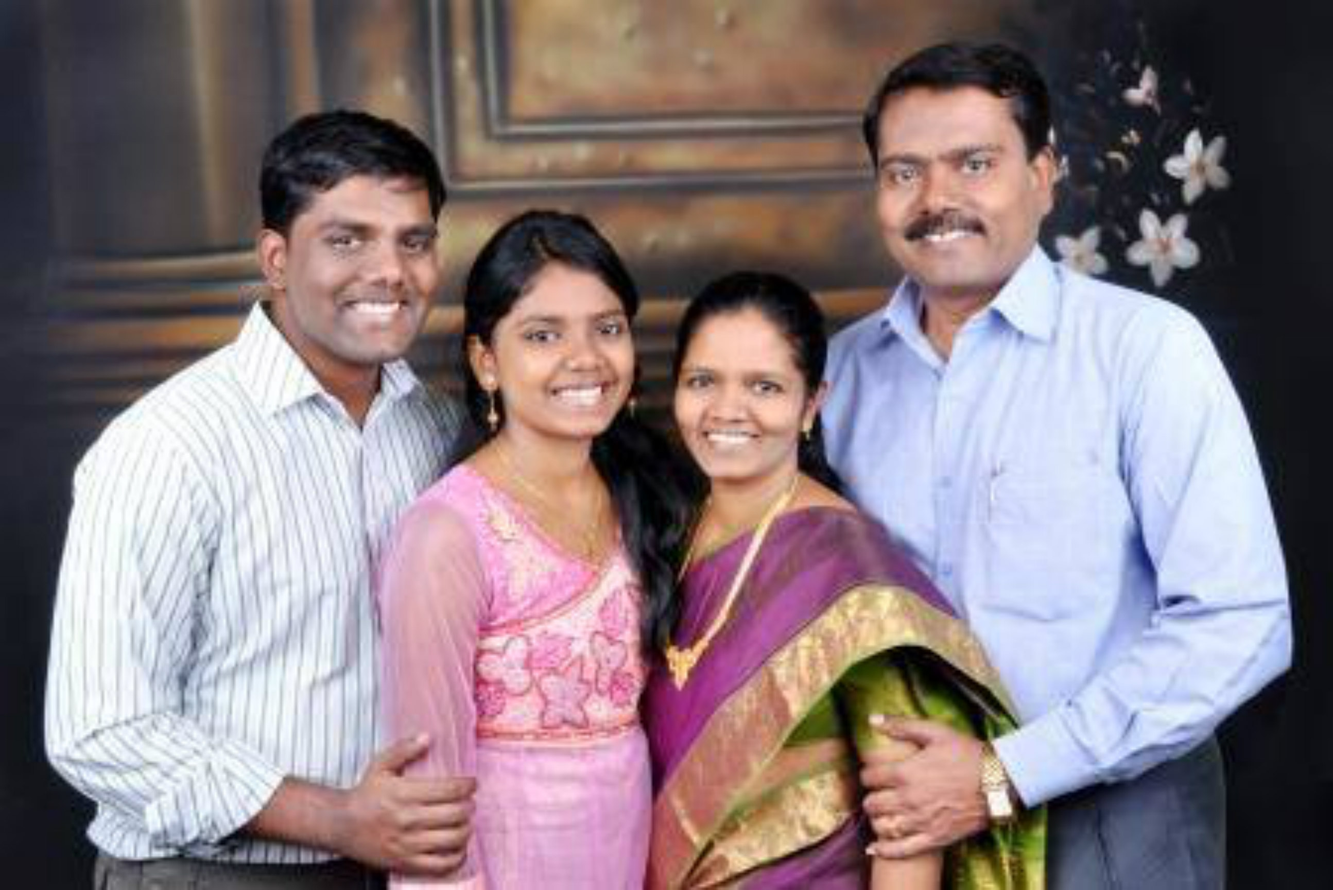
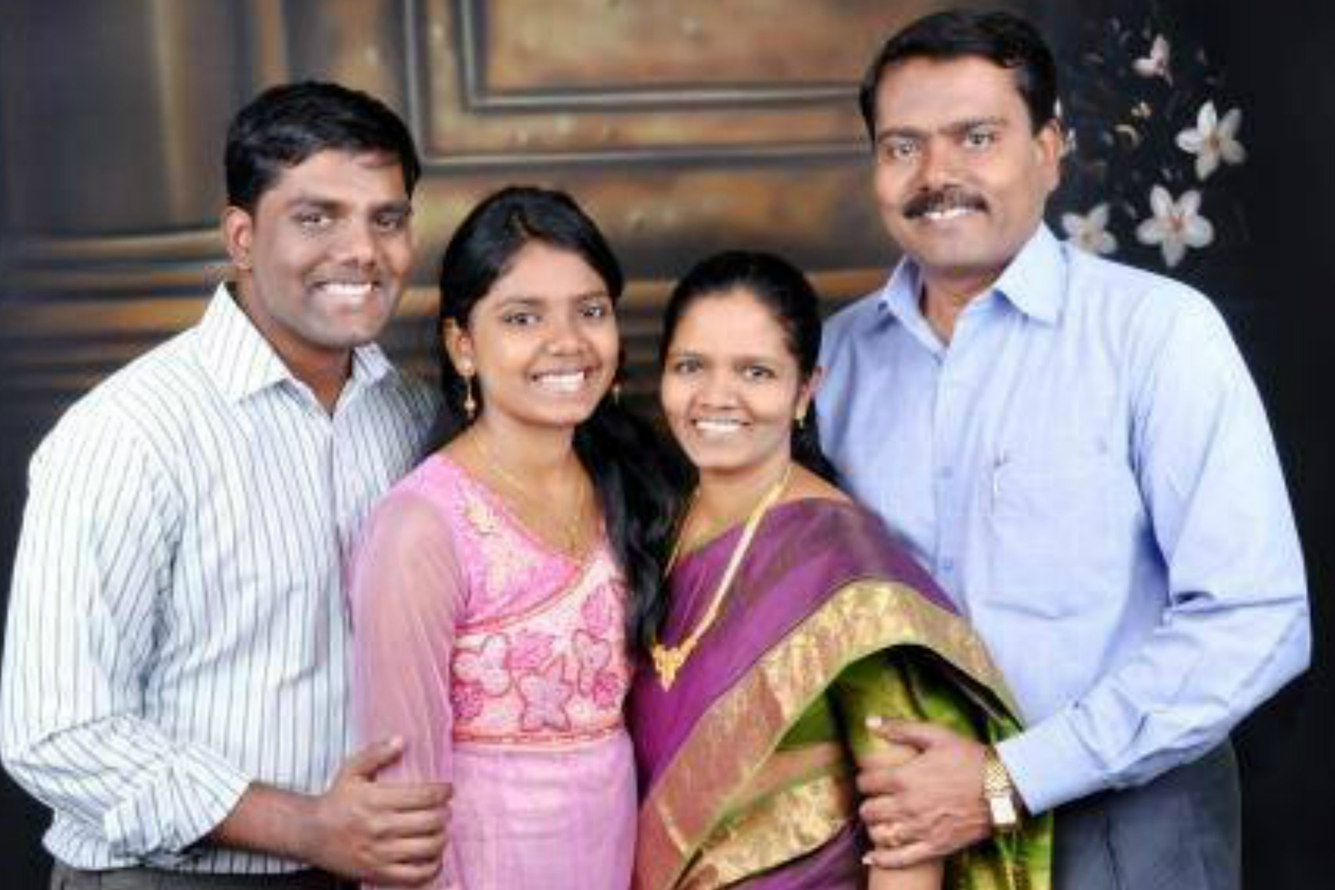
Updates
Favicon added
Food selector radio button javascript added
Images imperfection smoothed

diff --git a/index.php b/index.php
@@ -56,7 +56,7 @@ $wish = getWish();
 
 	<link href='https://fonts.googleapis.com/css?family=Work+Sans:400,300,600,400italic,700' rel='stylesheet' type='text/css'>
 	<link href="https://fonts.googleapis.com/css?family=Sacramento" rel="stylesheet">
-
+	<link rel="shortcut icon" href="bride-and-groom.ico" />
 	<!-- Animate.css -->
 	<link rel="stylesheet" href="css/animate.css">
 	<!-- Icomoon Icon Fonts-->
@@ -538,7 +538,7 @@ $wish = getWish();
 				</div>
 
 				<div><br></div>
-						
+
 <div class="row">
 	<div class="col-md-4 col-sm-4 col-md-offset-1">
 		<div class="radio-inline form-group" style="color:#d3d3d3">
@@ -565,7 +565,7 @@ $wish = getWish();
 
 				<div class="col-md-5 col-sm-5 col-md-offset-1">
 				<div class="dropdown">
-				<button class="btn btn-primary dropdown-toggle" type="button" data-toggle="dropdown">Food Preference							<span class="caret"></span>
+				<button class="btn btn-primary dropdown-toggle" type="button" id="food-button" data-toggle="dropdown">Food Preference							<span class="caret"></span>
 				</button>
 					<ul class="dropdown-menu" role="menu">
 					<li id="veg"><a role="menuitem" tabindex="-1">Vegetarian</a></li>
@@ -575,7 +575,7 @@ $wish = getWish();
 				</div>
 
 		</div>
-	
+
 <div><br></div>
 				<div class="row">
 						<div class="col-md-4 col-sm-4 col-md-offset-4">
@@ -625,7 +625,7 @@ $wish = getWish();
 
 		</div>
 	</footer>
-	
+
 
 	<div class="gototop js-top">
 		<a href="#" class="js-gotop"><i class="icon-arrow-up"></i></a>
@@ -773,10 +773,12 @@ $wish = getWish();
 
 	$("#veg").click(function(){
 		veg = 1;
+		$("#food-button").text('Vegetarian');
 	});
 
 	$("#non-veg").click(function(){
 		veg = 0;
+		$("#food-button").text('Non- Vegetarian');
 	});
 
 	$("#radio-button-2").click(function(){
